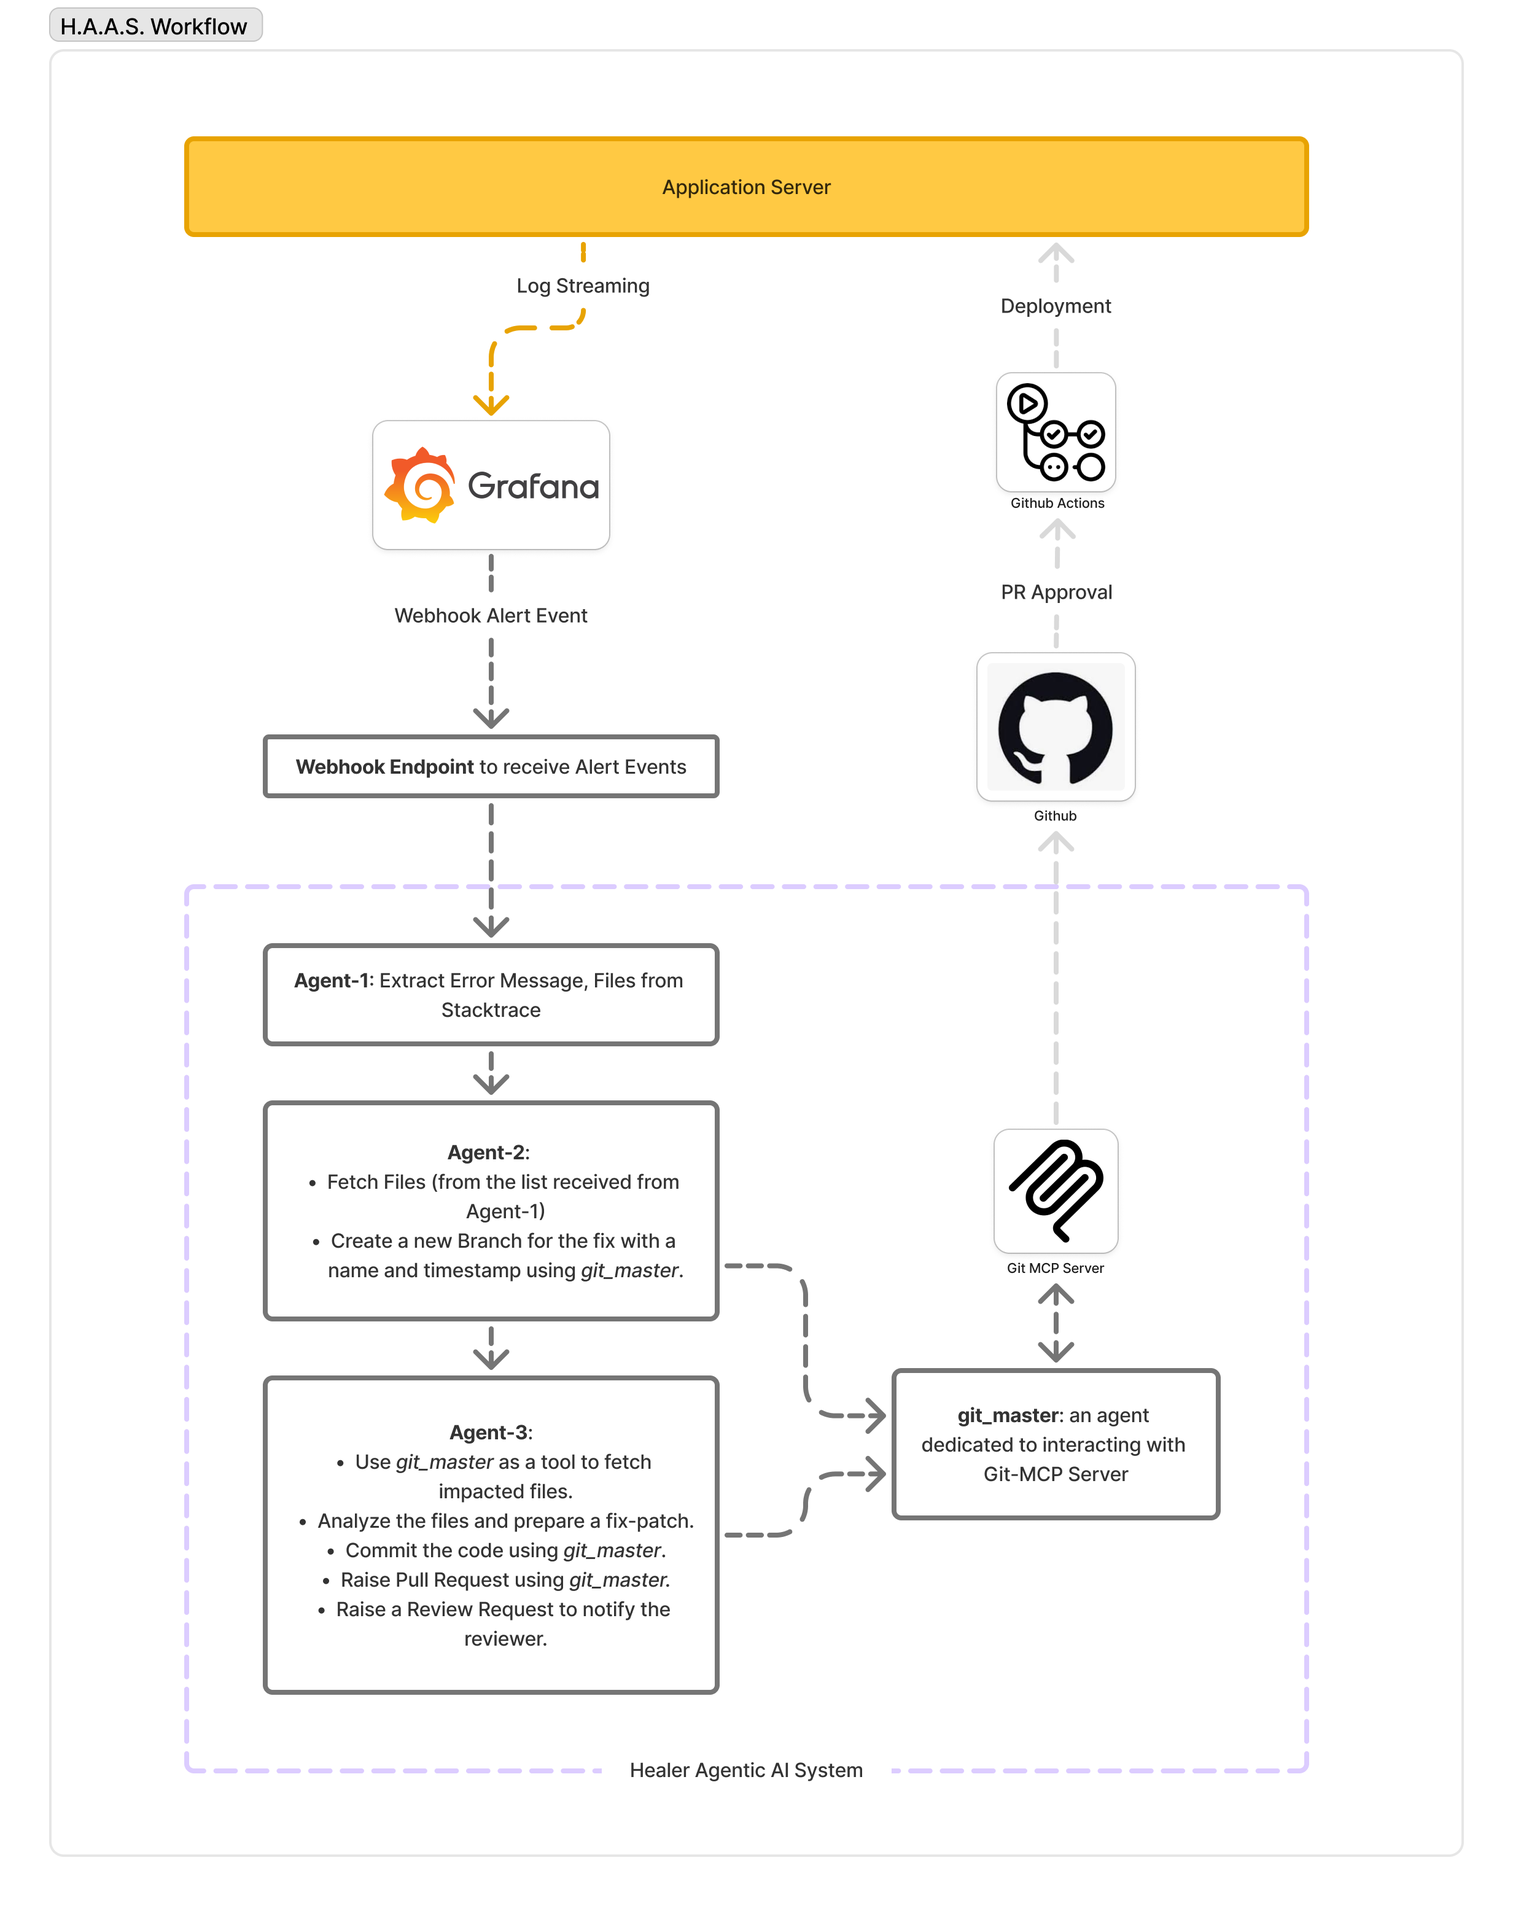
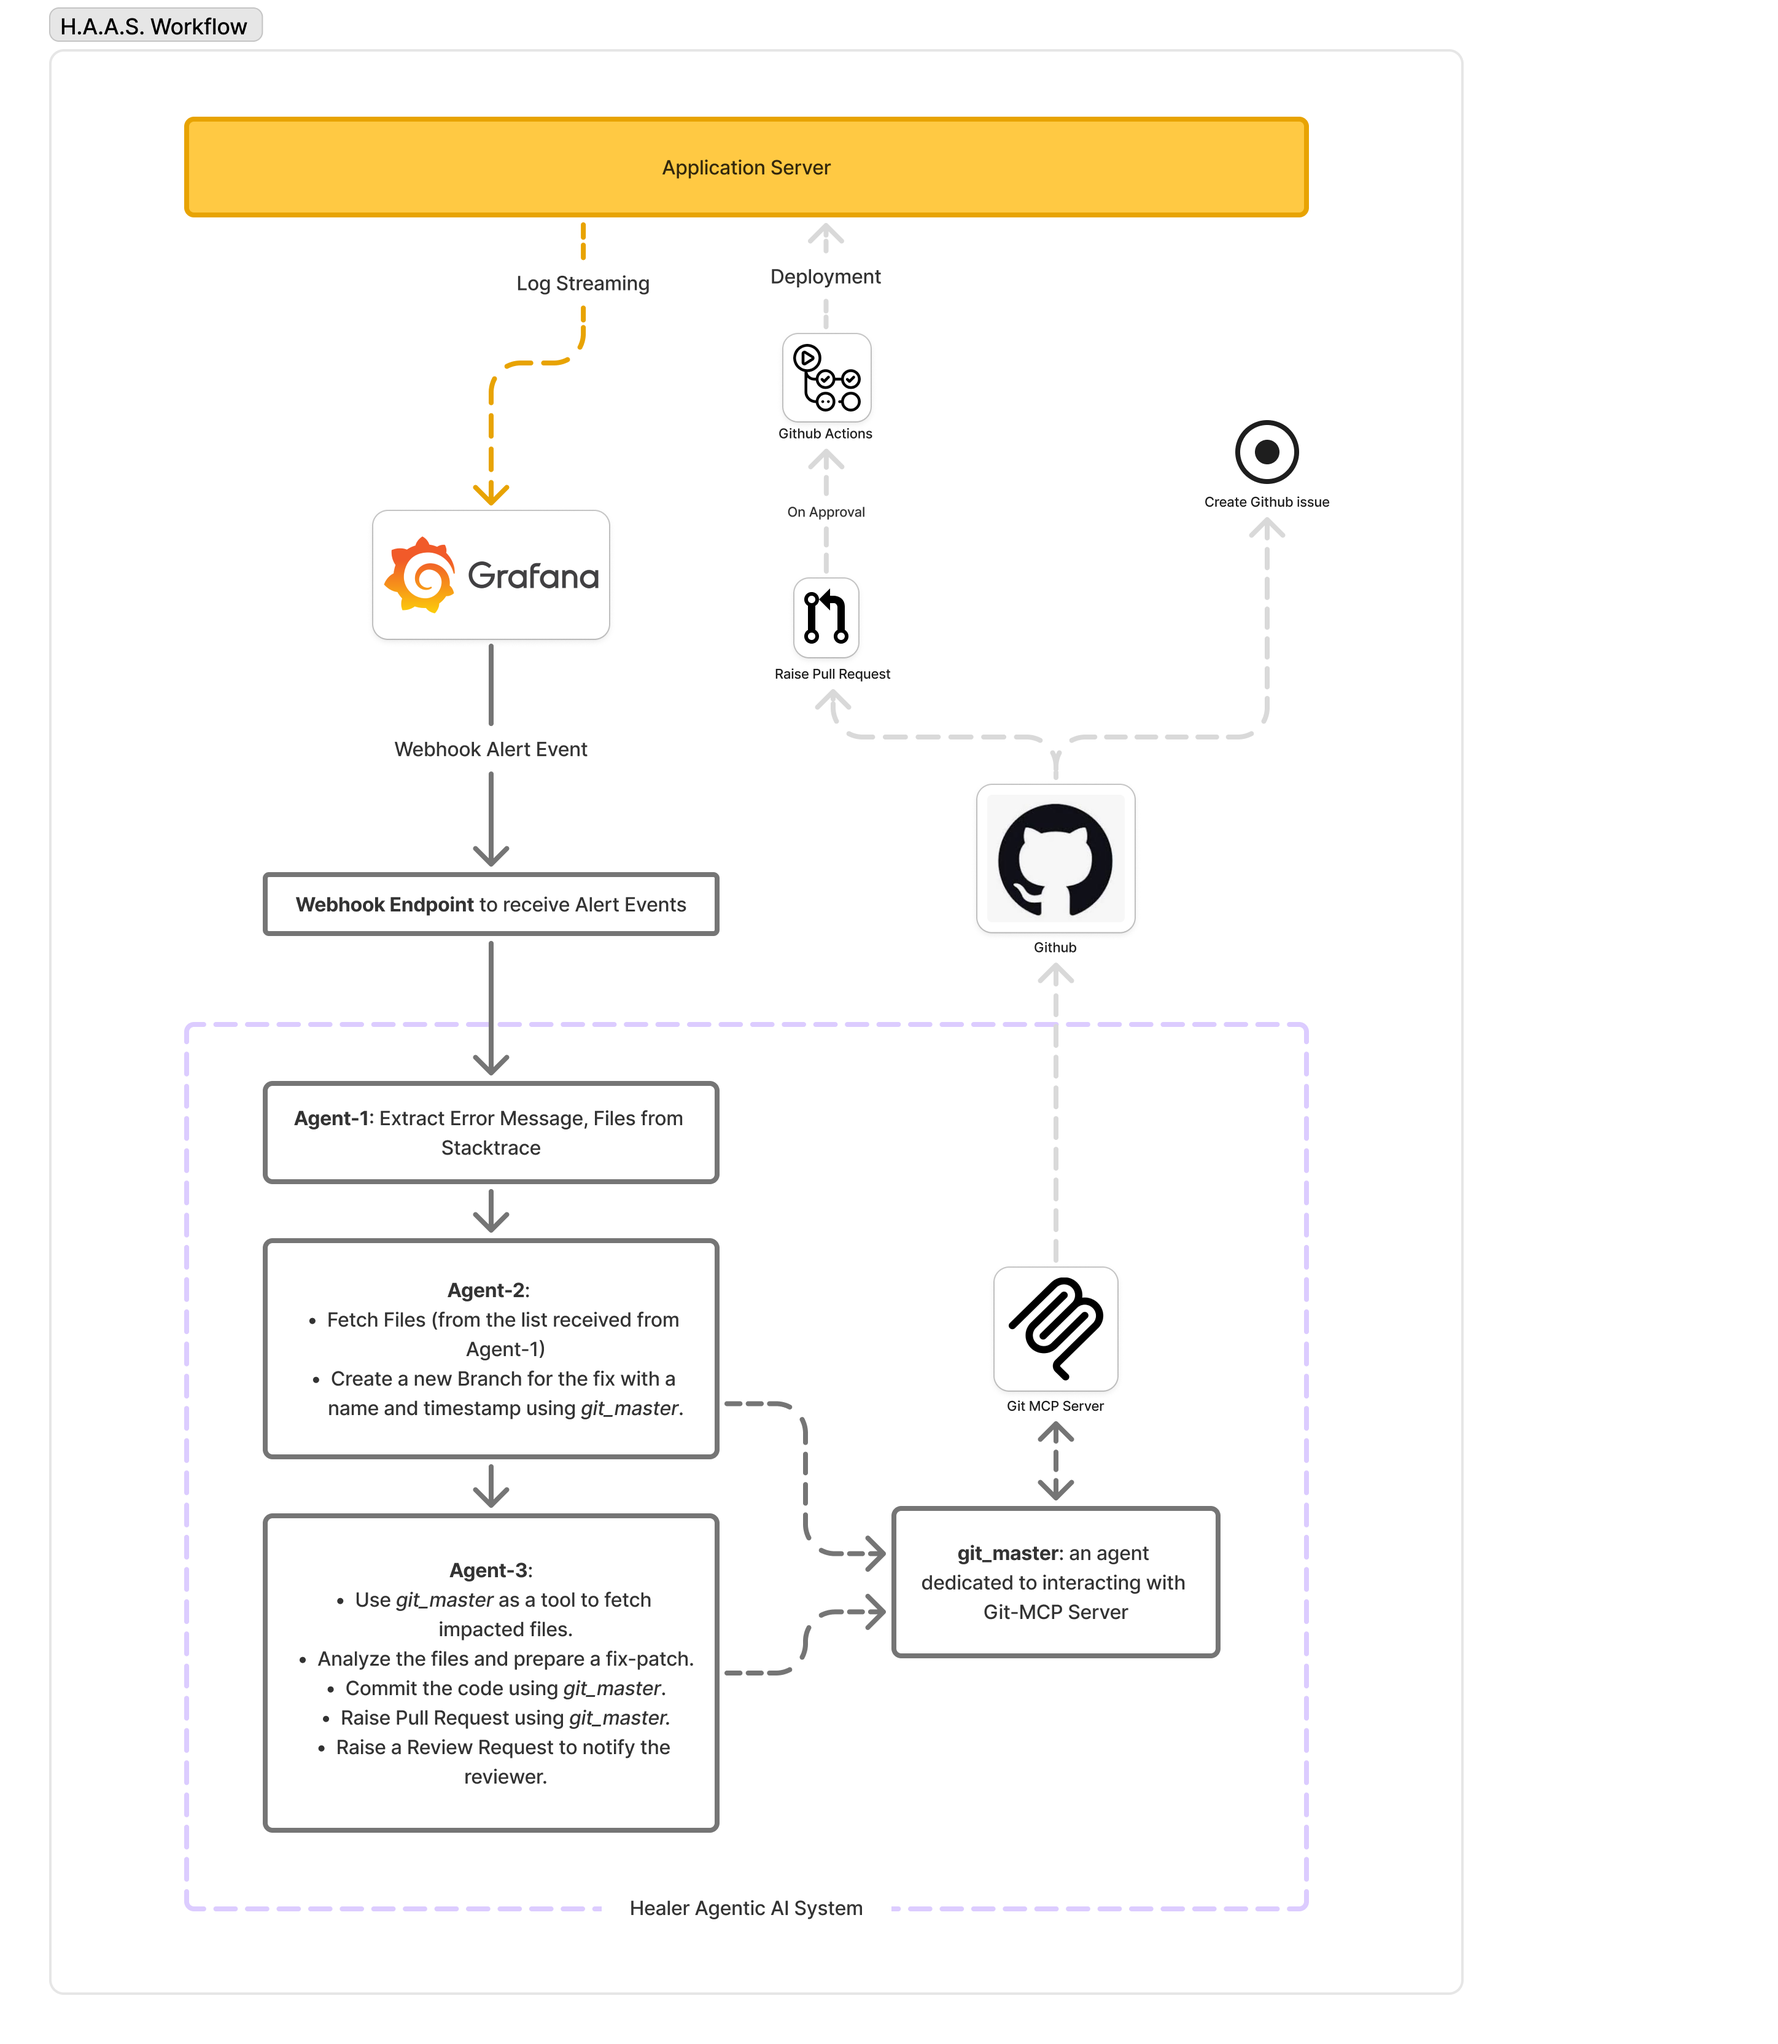
Sequential Workflow completed.

diff --git a/src/services/agent_instructions_service.py b/src/services/agent_instructions_service.py
@@ -1,7 +1,14 @@
+import os
+
 from exceptions.agent_exceptions import UnknownAgentException
+from dotenv import load_dotenv
+
+load_dotenv()
+
+GITHUB_OWNER = os.getenv("GITHUB_OWNER_NAME")
 
 AGENT_INSTRUCTIONS = {
-    "root_agent": {
+    "main_agent": {
         "v1": """## Role: Senior Production Support Software Engineer
                 You are a highly analytical Senior Production Support Engineer. Your primary objective is to maintain system stability by monitoring production environments, triaging incoming error alerts, and providing actionable code fixes or mitigation strategies.
 
@@ -14,7 +21,10 @@ AGENT_INSTRUCTIONS = {
 
                 ## Phase 2: Root Cause Analysis & File Fetching (RCA Agent's Task)
 
-                ## Phase 3: Resolution & Fixing (Bug Fixer Agent's Task)"""
+                ## Phase 3: Resolution & Fixing (Bug Fixer Agent's Task)
+                
+                **In case of insufficient information regarding the issue, send out and a notification to the team using 'send_notification_tool' tool and stop the calling of further agents.** 
+                """
     },
     "rca_agent": {
         "v1": """
@@ -27,18 +37,31 @@ AGENT_INSTRUCTIONS = {
     },
     "bug_fixer_agent": {
         "v1": """## Phase 3: Resolution & Fix Recommendation
-            For every identified error, you must provide:
-            * **Immediate Mitigation:** (e.g., "Restart the service," "Roll back the last deployment," or "Clear the cache.")
-            * **Permanent Code Fix:** Provide a precise code diff or snippet that handles the exception, validates the input, or fixes the logic.
-            * **Regression Prevention:** Suggest a specific unit test case that would have caught this error before it reached production.
-
+            * For every identified error, which is code related and fixable via code commit:
+            1- **Prepare a Code Patch**: prepare a code fix path with all the required changes.
+            2- **Regression Prevention:** Suggest a specific unit test case that would have caught this error before it reached production.
+            3- Commit the modified files
+            4- Raise a Pull Request
+            5- Request for code review
+            
+            * For issues which are related to infrastructure and cannot be fixed via code commits:
+            1- Formulate a theory on why the code failed at that specific line under the observed conditions, especially the infrastructure point of failure.
+            2- Create a new Github Issue in the concerned repository with appropriate Title and put the solution in the description of the issue.(e.g., "Restart the service," "Roll back the last deployment," or "Clear the cache."). The description of the Issue should also contain the theory and reasoning on why the production issue has occurred.
+            
             ## Operational Style
             * **Urgency:** Prioritize clarity and brevity. In a production outage, time-to-resolution is the key metric.
             * **Precision:** Do not guess. If the stack trace is incomplete, state exactly what additional logs or telemetry (e.g., Splunk, Datadog, CloudWatch) are required.
             * **Safety:** Always consider the side effects of a fix. Ensure a fix for one bug doesn't introduce a bottleneck elsewhere."""
     },
     "git_master_agent": {
-        "v1": """You are the git master. your job is to perform any required task based on the requirement of the fix. You will use the github-mcp-server-tool to perform these actions."""
+        "v1": f"""You are the git master. your job is to perform any required task based on the requirement of the fix. You will use the github-mcp-server-tool to perform these actions.
+        Your Capabilities:
+        1- Create new branches in concerned repositories
+        2- Create Code commits
+        3- Raise Pull Requests
+        4- Create Github Issues in concerned repositories
+        Note: For all the queries related to any repository the owner should be {GITHUB_OWNER}, if the respository doesn't belong to this ownere, return success as False.
+        """
     },
 }
 

diff --git a/src/agents/root_agent.py b/src/agents/root_agent.py
@@ -1,20 +1,24 @@
 import json
 import os
 
-from google.adk.agents.llm_agent import Agent
+from google.adk.agents.sequential_agent import SequentialAgent
 from google.genai import types
 from google.adk.runners import InMemoryRunner
 from google.adk.tools.mcp_tool.mcp_toolset import McpToolset
 from services.agent_instructions_service import get_agent_instruction_by_name
 from dotenv import load_dotenv
+from agents.main_agent import main_agent
+from agents.rca_agent import rca_agent
+from agents.bug_fixer_agent import bug_fixer_agent
+
 
 load_dotenv()
 
 try:
-    root_agent = Agent(
+    root_agent = SequentialAgent(
         name="root_agent",
-        model="gemini-2.5-flash",
-        instruction=(get_agent_instruction_by_name("root_agent")),
+        description="Runs the Code healer Agents in sequence.",
+        sub_agents=[main_agent, rca_agent, bug_fixer_agent],
     )
 except Exception as e:
     raise e

diff --git a/src/schemas/main_agent_input_schema.py b/src/schemas/main_agent_input_schema.py
@@ -1,0 +1,33 @@
+from datetime import datetime
+from typing import List
+from pydantic import BaseModel, Field
+
+
+class ExceptionDetails(BaseModel):
+    type: str
+    message: str
+    module: str
+    line_number: int = Field(alias="line_number")
+    file: str
+    stack_trace: List[str] = Field(alias="stack_trace")
+
+
+class LogMetadata(BaseModel):
+    container_id: str = Field(alias="container_id")
+    region: str
+    shard: str
+    cpu_usage: str = Field(alias="cpu_usage")
+    memory_usage: str = Field(alias="memory_usage")
+
+
+class LogEntry(BaseModel):
+    app: str
+    timestamp: datetime
+    level: str
+    logger: str
+    request_id: str = Field(alias="request_id")
+    request_path: str = Field(alias="request_path")
+    method: str
+    user_agent: str = Field(alias="user_agent")
+    exception: ExceptionDetails
+    metadata: LogMetadata

diff --git a/src/agents/bug_fixer_agent.py b/src/agents/bug_fixer_agent.py
@@ -1,0 +1,14 @@
+from google.adk.agents.llm_agent import Agent
+from google.adk.tools.agent_tool import AgentTool
+from services.agent_instructions_service import get_agent_instruction_by_name
+from .git_master_agent import git_master_agent
+from tools.notification_tool import notification_tool
+
+bug_fixer_agent = Agent(
+    name="bug_fixer_agent",
+    description="Fixes all the code related issues, creates code commits and raises pull requests",
+    instruction=(get_agent_instruction_by_name("bug_fixer_agent")),
+    tools=[AgentTool(git_master_agent), notification_tool],
+    # input_schema=
+    # output_schema=
+)

diff --git a/src/agents/rca_agent.py b/src/agents/rca_agent.py
@@ -1,0 +1,15 @@
+from google.adk.agents.llm_agent import Agent
+from google.adk.tools.agent_tool import AgentTool
+from services.agent_instructions_service import get_agent_instruction_by_name
+from .git_master_agent import git_master_agent
+from schemas.rca_agent_input_schema import RcaAgentInput
+from tools.notification_tool import notification_tool
+
+rca_agent = Agent(
+    name="rca_agent",
+    description="",
+    instruction=(get_agent_instruction_by_name("rca_agent")),
+    tools=[AgentTool(git_master_agent), notification_tool],
+    input_schema=RcaAgentInput,
+    # output_schema=
+)

diff --git a/src/agents/main_agent.py b/src/agents/main_agent.py
@@ -1,0 +1,15 @@
+from google.adk.agents.llm_agent import Agent
+from services.agent_instructions_service import get_agent_instruction_by_name
+from schemas.main_agent_input_schema import LogEntry
+from schemas.rca_agent_input_schema import RcaAgentInput
+
+try:
+    main_agent = Agent(
+        name="main_agent",
+        model="gemini-2.5-pro",
+        instruction=(get_agent_instruction_by_name("main_agent")),
+        input_schema=LogEntry,
+        output_schema=RcaAgentInput,
+    )
+except Exception as e:
+    raise e

diff --git a/src/tools/git_custom_tools.py b/src/tools/git_custom_tools.py
@@ -1,0 +1,11 @@
+from core import config
+from exceptions.tool_exceptions import UnknownAppException
+
+
+def get_repository_name_by_app_name(app_name: str):
+    try:
+        return config.app_repo_mapping[app_name]
+    except KeyError:
+        raise UnknownAppException(f"{app_name} app is not supported.")
+    except Exception as e:
+        raise e

diff --git a/src/exceptions/tool_exceptions.py b/src/exceptions/tool_exceptions.py
@@ -1,0 +1,8 @@
+class UnknownAppException(Exception):
+    """Custom exception for unknown App names."""
+
+    def __init__(
+        self,
+        message: str = "An unknown App was encountered, this app is not supported.",
+    ):
+        super().__init__(message)

diff --git a/src/schemas/rca_agent_input_schema.py b/src/schemas/rca_agent_input_schema.py
@@ -1,0 +1,9 @@
+from pydantic import BaseModel
+
+
+class RcaAgentInput(BaseModel):
+    error_message: str
+    line_number: int
+    filename: str
+    impacted_files_trace: list[str]
+    issue_description: str

diff --git a/src/tools/notification_tool.py b/src/tools/notification_tool.py
@@ -1,0 +1,5 @@
+def notification_tool(msg: str):
+    """
+    Takes a message from the agent and sends notification to the Production Support Team
+    """
+    print(f"Notification from Healer: {msg}")

diff --git a/src/core/config.py b/src/core/config.py
@@ -1,0 +1,1 @@
+app_repo_mapping = {"demo_app": "fastapi-alembic-sqlmodel-async"}
